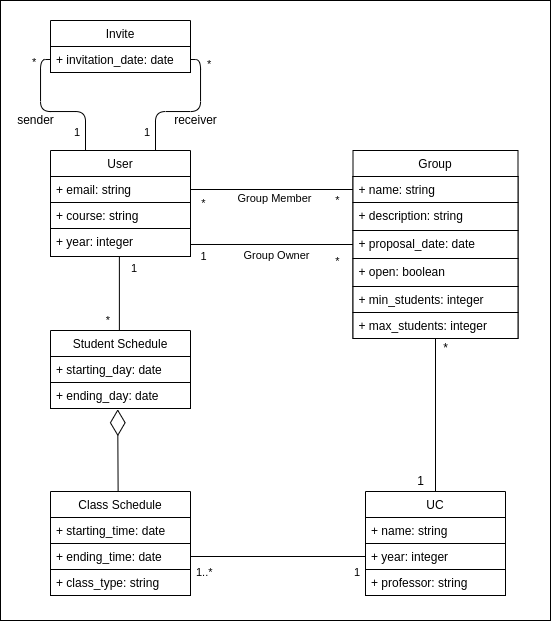
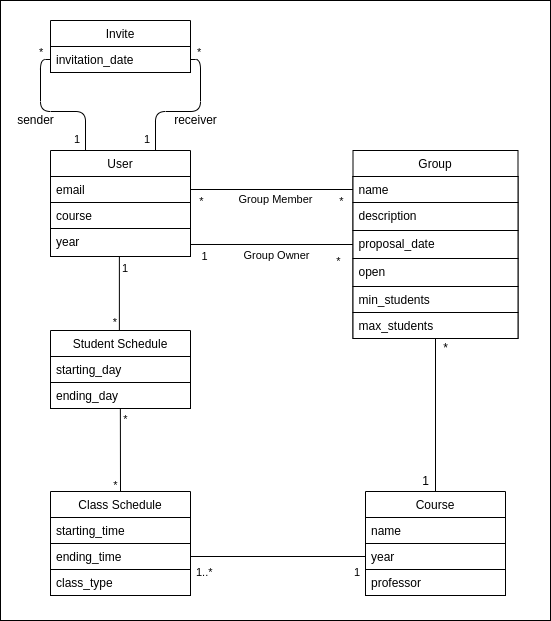
Updated Domain Model

diff --git a/docs/requirements.md b/docs/requirements.md
@@ -54,3 +54,10 @@ User stories are located in the [GitHub Issues](https://github.com/LEIC-ES-2021-
 ### Domain model
 
 ![Domain Model](../images/DomainModel.png)
+
+- **User**: Represents a student, with its corresponding information.
+- **Student Schedule**: Represents a student's schedule, containing different class schedules.
+- **Class Schedule**: Represents a class' schedule, belonging to student schedules.
+- **Invite**: Represents a student's invite to another student to join its group.
+- **Group**: Represents a partial or fully formed group, with a specific group owner.
+- **Course**: Represents a Curricular Unit
